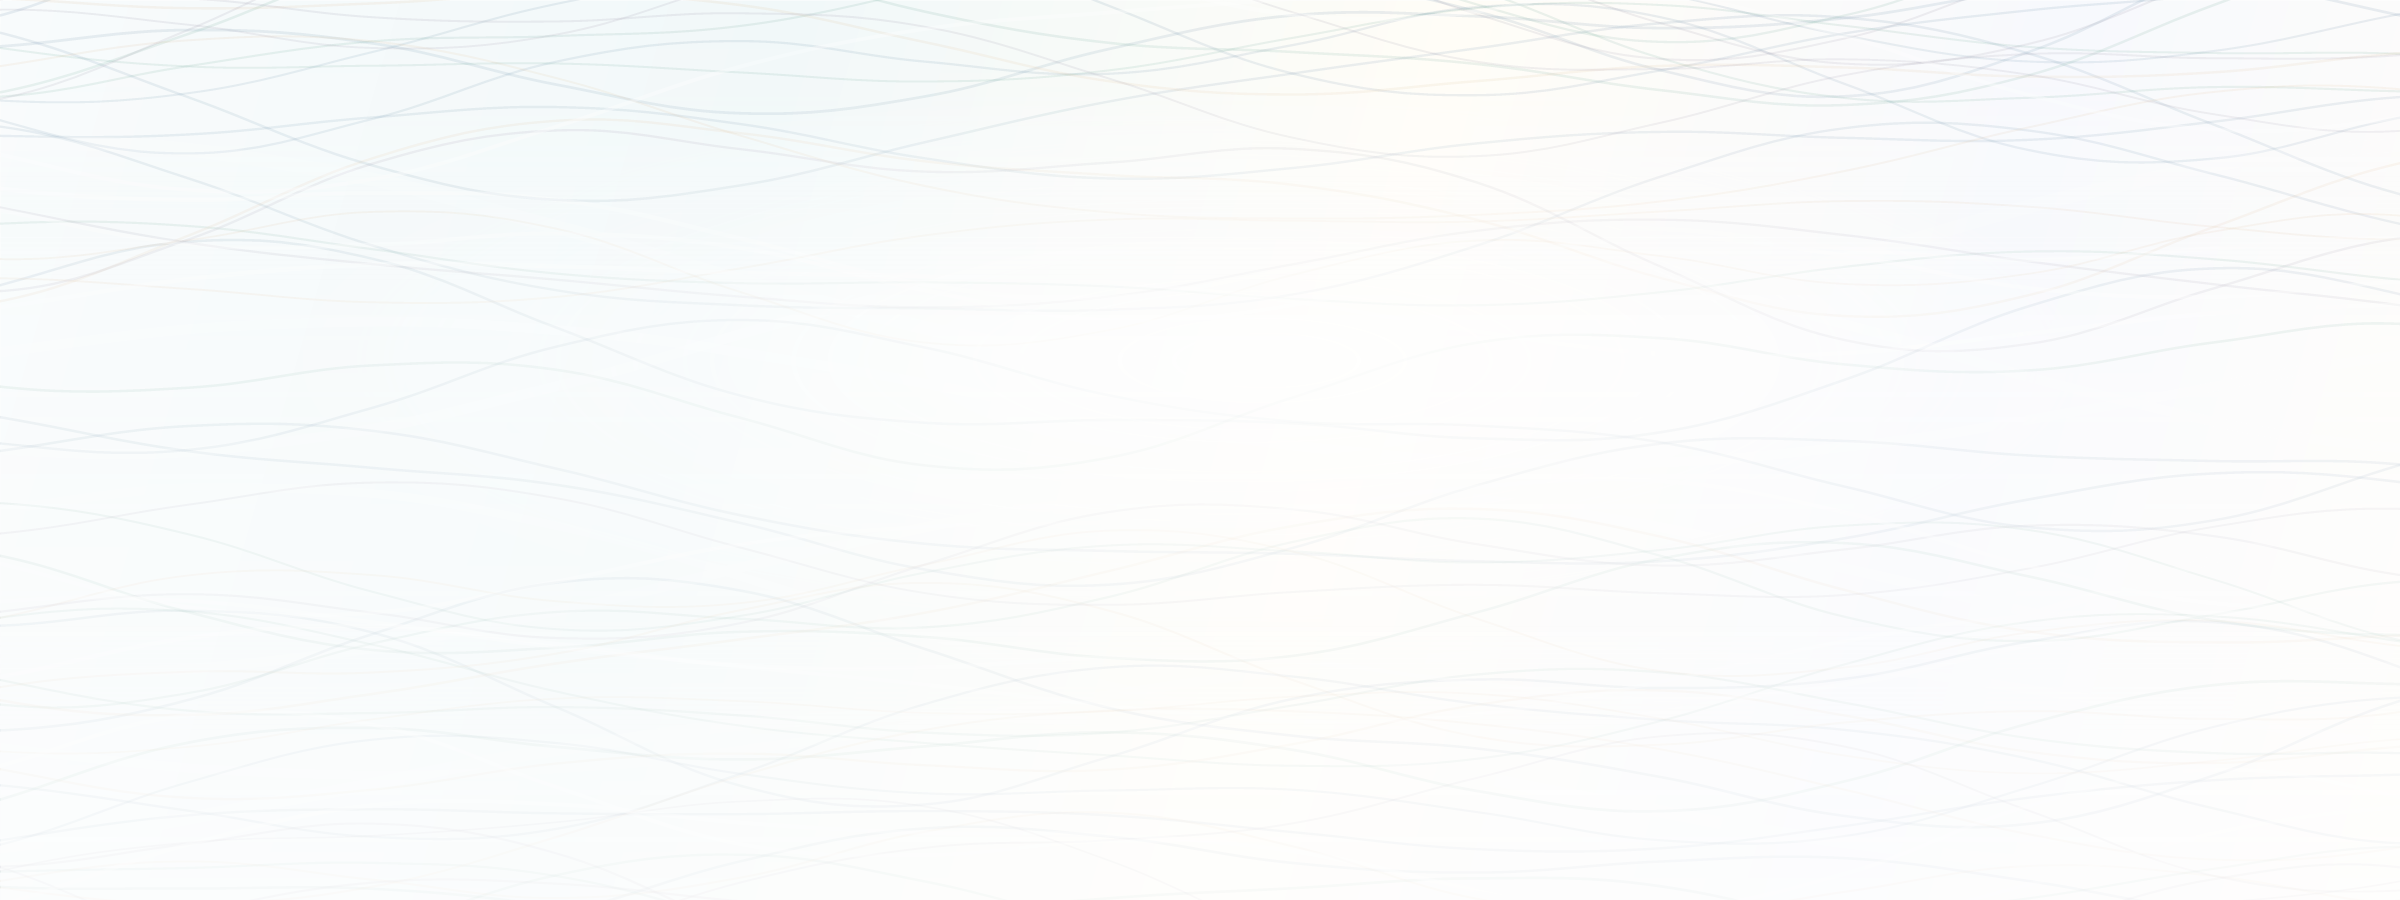
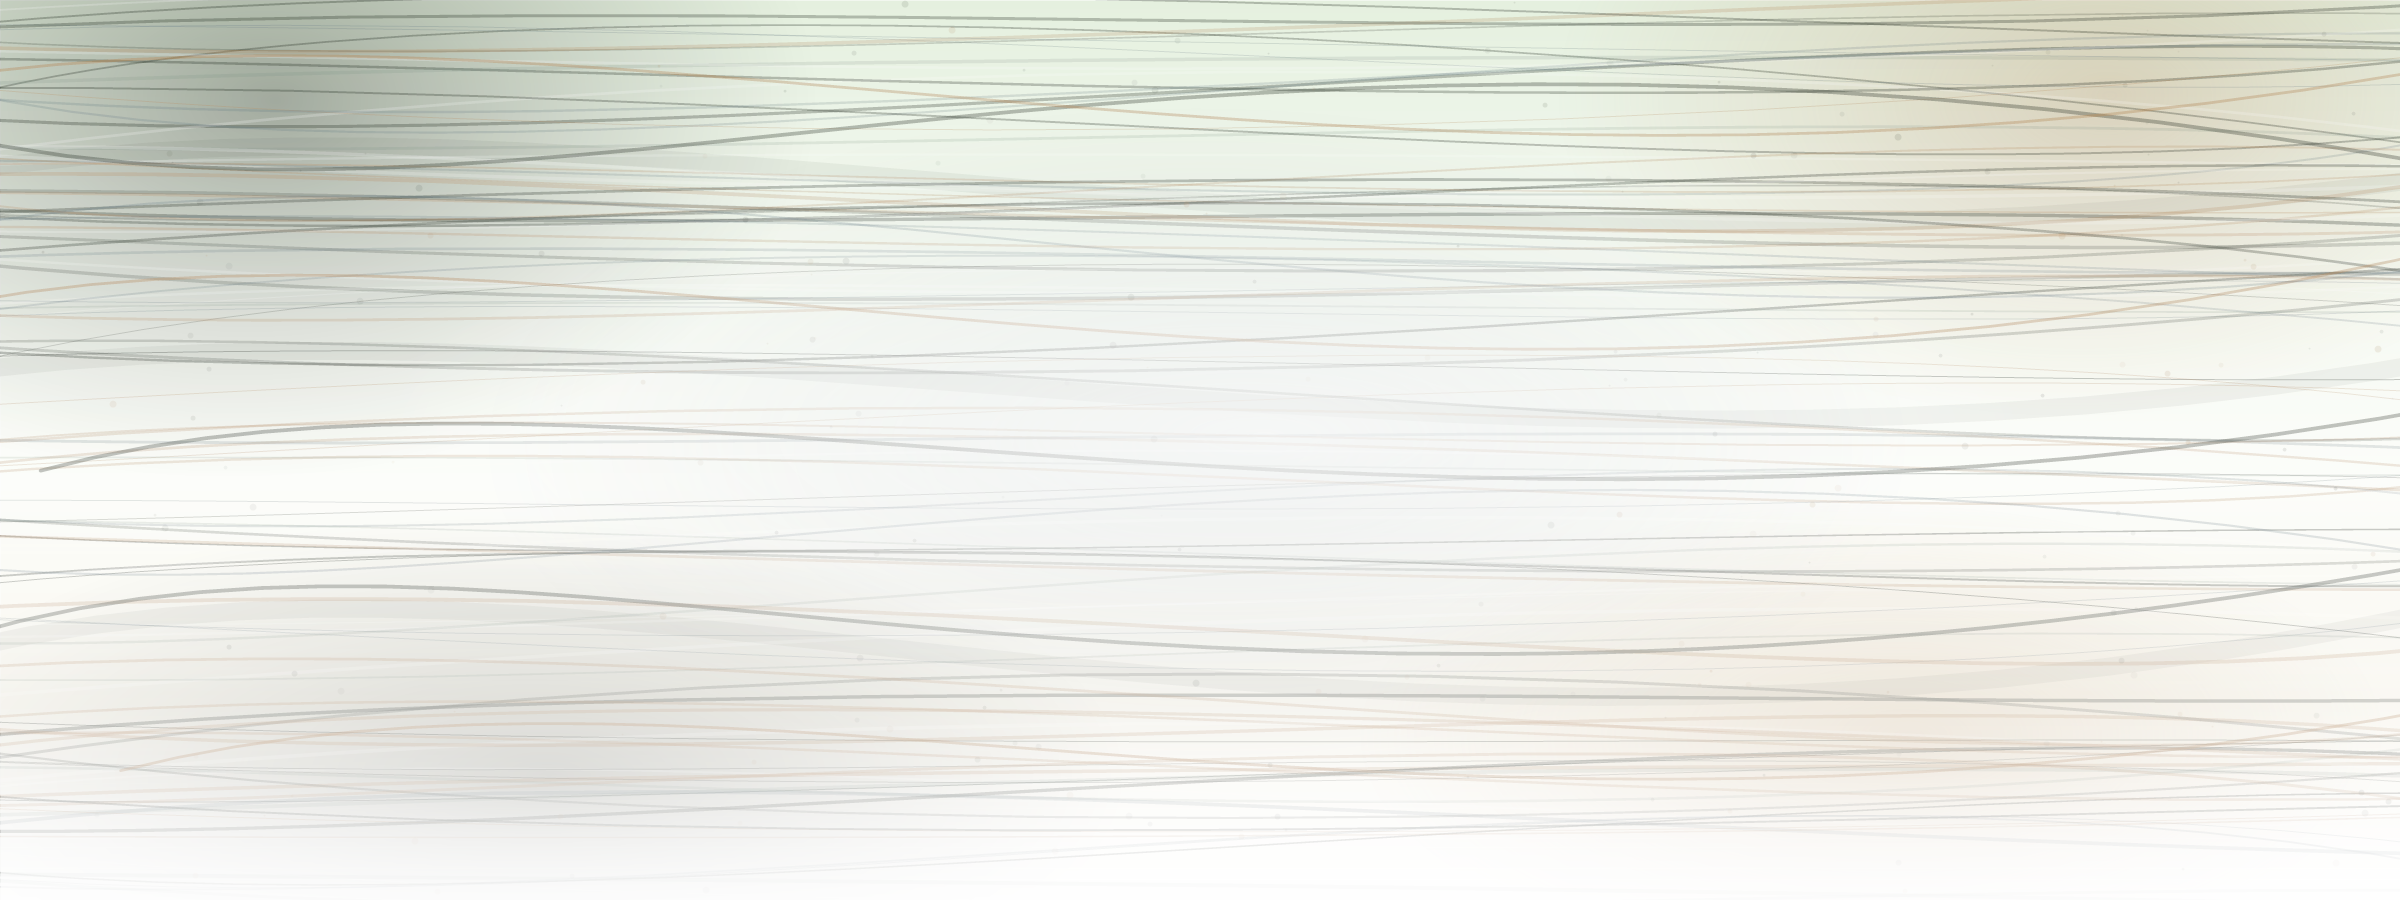
20260707

diff --git a/Web/LEADer/styles.css b/Web/LEADer/styles.css
@@ -46,7 +46,7 @@ a:hover {
   overflow: hidden;
   margin-bottom: 0;
   padding: 48px 0 0;
-  background: linear-gradient(180deg, #f7faf5 0%, #ffffff 100%);
+  background: linear-gradient(180deg, #edf5e8 0%, #fffaf1 54%, #ffffff 100%);
 }
 
 .hero-band::before {
@@ -55,8 +55,8 @@ a:hover {
   inset: 0;
   content: "";
   background: url("/Web/LEADer/Figures/HeroBackground.png") center top / cover no-repeat;
-  filter: contrast(1.34) saturate(1.18);
-  opacity: 0.96;
+  filter: contrast(1.18) saturate(1.22);
+  opacity: 1;
   transform: scale(1.015);
   pointer-events: none;
 }
@@ -67,11 +67,12 @@ a:hover {
   inset: 0;
   content: "";
   background:
-    radial-gradient(ellipse at 50% 21%, rgba(255, 255, 255, 0.42) 0%, rgba(255, 255, 255, 0.18) 32%, rgba(255, 255, 255, 0.00) 66%),
-    radial-gradient(ellipse at 10% 11%, rgba(39, 95, 62, 0.20) 0%, rgba(39, 95, 62, 0.00) 38%),
-    radial-gradient(ellipse at 92% 8%, rgba(183, 148, 96, 0.16) 0%, rgba(183, 148, 96, 0.00) 36%),
-    linear-gradient(90deg, rgba(255, 255, 255, 0.34), transparent 18%, transparent 82%, rgba(255, 255, 255, 0.34)),
-    linear-gradient(180deg, rgba(255, 255, 255, 0.00) 0%, rgba(255, 255, 255, 0.28) 58%, #ffffff 96%);
+    radial-gradient(ellipse at 50% 25%, rgba(255, 255, 255, 0.48) 0%, rgba(255, 255, 255, 0.20) 31%, rgba(255, 255, 255, 0.00) 64%),
+    radial-gradient(ellipse at 8% 8%, rgba(18, 47, 8, 0.30) 0%, rgba(18, 47, 8, 0.00) 36%),
+    radial-gradient(ellipse at 91% 10%, rgba(183, 135, 59, 0.24) 0%, rgba(183, 135, 59, 0.00) 38%),
+    radial-gradient(ellipse at 74% 58%, rgba(84, 116, 133, 0.16) 0%, rgba(84, 116, 133, 0.00) 34%),
+    linear-gradient(100deg, rgba(255, 255, 255, 0.22), transparent 18%, transparent 82%, rgba(255, 255, 255, 0.24)),
+    linear-gradient(180deg, rgba(255, 255, 255, 0.00) 0%, rgba(255, 255, 255, 0.18) 58%, #ffffff 97%);
   pointer-events: none;
 }
 
@@ -117,7 +118,7 @@ h1 {
 .hero-card h1 {
   text-shadow:
     0 1px 0 rgba(255, 255, 255, 0.74),
-    0 16px 34px rgba(39, 95, 62, 0.14);
+    0 16px 34px rgba(18, 47, 8, 0.17);
 }
 
 .conference {
@@ -128,7 +129,7 @@ h1 {
 }
 
 .hero-card .conference {
-  text-shadow: 0 10px 24px rgba(39, 95, 62, 0.12);
+  text-shadow: 0 10px 24px rgba(18, 47, 8, 0.15);
 }
 
 .authors {
@@ -139,7 +140,7 @@ h1 {
 }
 
 .hero-card .authors a {
-  color: #275F3E;
+  color: #122F08;
 }
 
 .institutions,
@@ -193,9 +194,9 @@ h1 {
 }
 
 .pill-primary {
-  border-color: rgba(55, 55, 70, 0.72);
-  background: linear-gradient(180deg, #454459 0%, #373746 100%);
-  box-shadow: 0 14px 36px rgba(56, 56, 71, 0.24);
+  border-color: rgba(18, 47, 8, 0.62);
+  background: linear-gradient(180deg, #24401a 0%, #122F08 100%);
+  box-shadow: 0 14px 36px rgba(18, 47, 8, 0.28);
   color: #ffffff;
 }
 
@@ -209,8 +210,8 @@ h1 {
 }
 
 .pill-primary:hover {
-  border-color: rgba(55, 55, 70, 0.78);
-  background: linear-gradient(180deg, #4c4c63 0%, #323240 100%);
+  border-color: rgba(18, 47, 8, 0.72);
+  background: linear-gradient(180deg, #2b4d1f 0%, #122F08 100%);
   color: #ffffff;
 }
 .restoration-demo {
@@ -266,20 +267,21 @@ h1 {
 }
 
 .demo-label-ours {
-  color: #275F3E;
+  color: #122F08;
 }
 
 .demo-image {
-  --frame-gradient: linear-gradient(135deg, #dfe8f2 0%, #aebfd1 48%, #f1f6f8 100%);
+  --frame-rgb: 96, 112, 132;
+  --frame-gradient: linear-gradient(135deg, #f5f8fb 0%, #9fb3c8 34%, #e4ebf1 62%, #72869f 100%);
   --frame-highlight: rgba(255, 255, 255, 0.70);
-  --frame-shadow: 0 18px 38px rgba(38, 50, 68, 0.12);
-  --frame-hover-shadow: 0 22px 44px rgba(38, 50, 68, 0.16);
+  --frame-shadow: 0 18px 38px rgba(38, 50, 68, 0.12), 0 0 0 5px rgba(var(--frame-rgb), 0.045);
+  --frame-hover-shadow: 0 22px 44px rgba(38, 50, 68, 0.17), 0 0 0 6px rgba(var(--frame-rgb), 0.070);
   position: relative;
   overflow: hidden;
   width: 100%;
   aspect-ratio: 1;
-  border: 3px solid transparent;
-  border-radius: 10px;
+  border: 4px solid transparent;
+  border-radius: 12px;
   background:
     linear-gradient(#ffffff, #ffffff) padding-box,
     var(--frame-gradient) border-box;
@@ -292,34 +294,51 @@ h1 {
 .demo-image::before {
   position: absolute;
   z-index: 3;
-  inset: 0;
-  border-radius: 7px;
+  inset: 3px;
+  border-radius: 6px;
   content: "";
   box-shadow:
-    inset 0 0 0 1px rgba(255, 255, 255, 0.62),
-    inset 0 0 0 2px rgba(37, 44, 54, 0.045);
+    inset 0 0 0 1px rgba(255, 255, 255, 0.68),
+    inset 0 0 0 2px rgba(var(--frame-rgb), 0.075);
   pointer-events: none;
 }
 
+.demo-image::after {
+  position: absolute;
+  z-index: 4;
+  inset: 0;
+  border-radius: 8px;
+  content: "";
+  background:
+    linear-gradient(135deg, rgba(255, 255, 255, 0.32) 0%, rgba(255, 255, 255, 0.00) 28%),
+    linear-gradient(315deg, rgba(var(--frame-rgb), 0.15) 0%, rgba(var(--frame-rgb), 0.00) 32%);
+  opacity: 0.50;
+  pointer-events: none;
+  transition: opacity 0.22s ease, transform 0.22s ease;
+}
+
 .demo-image-input {
-  --frame-gradient: linear-gradient(135deg, #dde8f3 0%, #9fb6cc 48%, #f2f6f8 100%);
+  --frame-rgb: 98, 115, 137;
+  --frame-gradient: linear-gradient(135deg, #f6f9fb 0%, #91a7bd 36%, #dce6ee 63%, #687e97 100%);
   --frame-highlight: rgba(255, 255, 255, 0.72);
-  --frame-shadow: 0 18px 38px rgba(96, 112, 132, 0.16);
-  --frame-hover-shadow: 0 22px 46px rgba(96, 112, 132, 0.22);
+  --frame-shadow: 0 18px 38px rgba(96, 112, 132, 0.17), 0 0 0 5px rgba(98, 115, 137, 0.050);
+  --frame-hover-shadow: 0 22px 46px rgba(96, 112, 132, 0.23), 0 0 0 6px rgba(98, 115, 137, 0.080);
 }
 
 .demo-image-baseline {
-  --frame-gradient: linear-gradient(135deg, #8792a2 0%, #2f3848 50%, #a1abb7 100%);
+  --frame-rgb: 45, 52, 65;
+  --frame-gradient: linear-gradient(135deg, #d9dde4 0%, #2d3441 44%, #8f99a7 73%, #f5f4ef 100%);
   --frame-highlight: rgba(255, 255, 255, 0.58);
-  --frame-shadow: 0 18px 38px rgba(41, 48, 61, 0.20);
-  --frame-hover-shadow: 0 22px 46px rgba(41, 48, 61, 0.26);
+  --frame-shadow: 0 18px 38px rgba(41, 48, 61, 0.21), 0 0 0 5px rgba(45, 52, 65, 0.050);
+  --frame-hover-shadow: 0 22px 46px rgba(41, 48, 61, 0.28), 0 0 0 6px rgba(45, 52, 65, 0.075);
 }
 
 .demo-image-leader {
-  --frame-gradient: linear-gradient(135deg, #c7d9c7 0%, #275F3E 46%, #e1eadf 100%);
+  --frame-rgb: 18, 47, 8;
+  --frame-gradient: linear-gradient(135deg, #eef3e7 0%, #8da170 24%, #122F08 48%, #b78c42 72%, #f4f1e7 100%);
   --frame-highlight: rgba(255, 255, 255, 0.72);
-  --frame-shadow: 0 18px 40px rgba(39, 95, 62, 0.24), 0 0 0 5px rgba(39, 95, 62, 0.065);
-  --frame-hover-shadow: 0 22px 48px rgba(39, 95, 62, 0.30), 0 0 0 6px rgba(39, 95, 62, 0.090);
+  --frame-shadow: 0 18px 40px rgba(18, 47, 8, 0.28), 0 0 0 5px rgba(18, 47, 8, 0.080);
+  --frame-hover-shadow: 0 22px 50px rgba(18, 47, 8, 0.34), 0 0 0 6px rgba(18, 47, 8, 0.115);
 }
 
 .demo-stage:hover .demo-image {
@@ -328,6 +347,11 @@ h1 {
     var(--frame-hover-shadow),
     inset 0 0 0 1px var(--frame-highlight);
   filter: saturate(1.03);
+}
+
+.demo-stage:hover .demo-image::after {
+  opacity: 0.76;
+  transform: translateX(2%);
 }
 
 .demo-image img {
@@ -358,7 +382,7 @@ h1 {
 .flow-arrow {
   display: inline-block;
   margin-top: 26px;
-  background: linear-gradient(90deg, #9b91b3 0%, #6f8992 52%, #275F3E 100%);
+  background: linear-gradient(90deg, #9b91b3 0%, #6f8992 52%, #122F08 100%);
   background-clip: text;
   -webkit-background-clip: text;
   color: transparent;